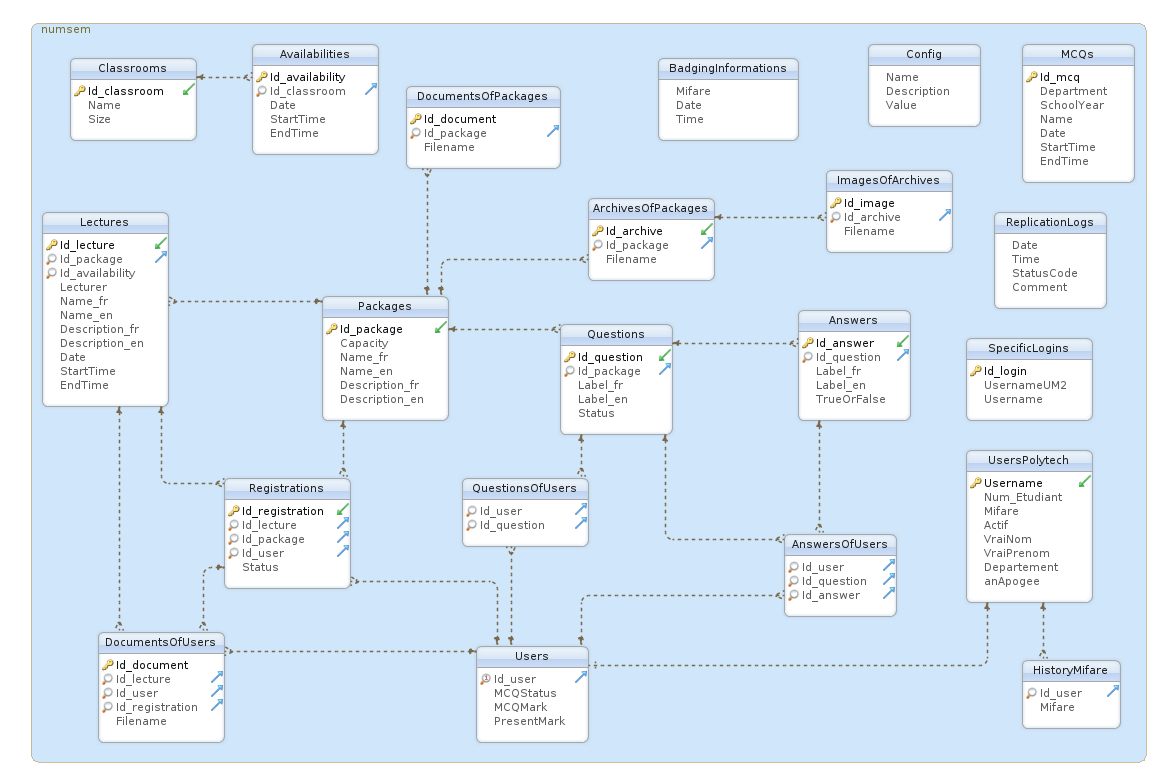
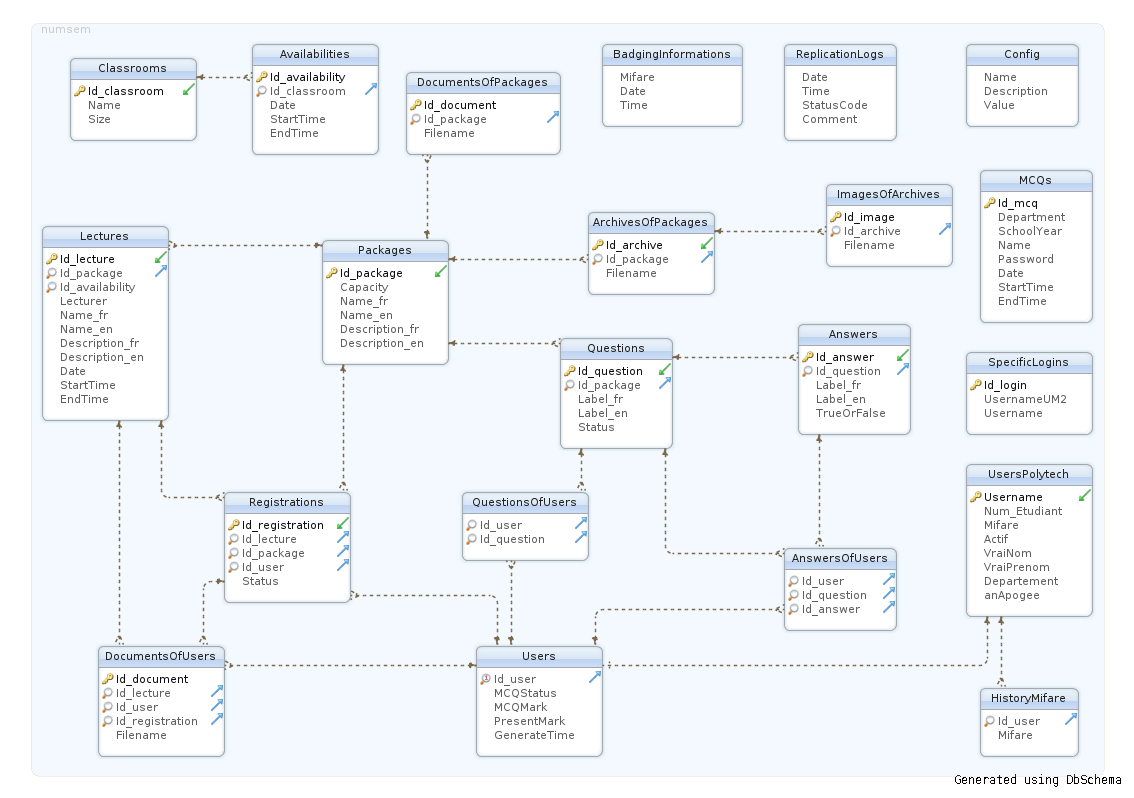
Ajout d'un mdp pour les QCMs

diff --git a/www/lib/models/McqManager.class.php b/www/lib/models/McqManager.class.php
@@ -7,6 +7,7 @@
                                   Department,
                                   SchoolYear,
                                   Name,
+                                  Password,
                                   Date,
                                   StartTime,
                                   EndTime FROM MCQs';
@@ -47,6 +48,7 @@
                 $mcq->setDepartment($data['Department']);
                 $mcq->setSchoolYear($data['SchoolYear']);
                 $mcq->setName($data['Name']);
+                $mcq->setPassword($data['Password']);
                 $mcq->setDate($date);
                 $mcq->setStartTime($startTime);
                 $mcq->setEndTime($endTime);
@@ -62,13 +64,15 @@
             $req = $this->m_dao->prepare('INSERT INTO MCQs(Department,
                                                            SchoolYear,
                                                            Name,
+                                                           Password,
                                                            Date,
                                                            StartTime,
-                                                           EndTime) VALUES(?, ?, ?, ?, ?, ?)');
+                                                           EndTime) VALUES(?, ?, ?, ?, ?, ?, ?)');
 
             $req->execute(array($mcq->getDepartment(),
                                 $mcq->getSchoolYear(),
                                 $mcq->getName(),
+                                $mcq->getPassword(),
                                 $mcq->getDate()->toStringMySQL(),
                                 $mcq->getStartTime()->toStringMySQL(),
                                 $mcq->getEndTime()->toStringMySQL()));

diff --git a/www/apps/backend/modules/mcq/views/index.php b/www/apps/backend/modules/mcq/views/index.php
@@ -17,6 +17,7 @@
 		<th>Departement</th>
 		<th>Année d'étude</th>
         <th>Nom</th>
+        <th>Mot de passe</th>
 		<th>Date</th>
 		<th>Horaire de début</th>
 		<th>Horaire de fin</th>
@@ -30,18 +31,20 @@
         $schoolYear = $mcq->getSchoolYear() + 2;
 
         $name = $mcq->getName();
+        $password = $mcq->getPassword();
         $date = $mcq->getDate();
         $startTime = $mcq->getStartTime();
         $endTime = $mcq->getEndTime();
 
         echo '<tr>';
 
-        echo "<td><p class='labelable' data-id='$id'  data-entry-name='MCQs' data-field-name='Department' data-form-type='textbox'>{$mcq->getDepartment()}</p></td>";
+        echo "<td><p class='labelable' data-id='$id' data-entry-name='MCQs' data-field-name='Department' data-form-type='textbox'>{$mcq->getDepartment()}</p></td>";
 
-        echo "<td><p class='labelable' data-id='$id'  data-entry-name='MCQs' data-field-name='SchoolYear' data-form-type='textbox'>{$schoolYear}</p></td>";
+        echo "<td><p class='labelable' data-id='$id' data-entry-name='MCQs' data-field-name='SchoolYear' data-form-type='textbox'>{$schoolYear}</p></td>";
 
-        echo "<td><p class='editable' data-id='$id'  data-entry-name='MCQs' data-field-name='Name' data-form-type='textbox'>{$name}</p></td>";
+        echo "<td><p class='editable' data-id='$id' data-entry-name='MCQs' data-field-name='Name' data-form-type='textbox'>{$name}</p></td>";
 
+        echo "<td><p class='editable' data-id='$id' data-entry-name='MCQs' data-field-name='Password' data-form-type='textbox'>{$password}</p></td>";
 
         // Date
         echo '<td>';

diff --git a/www/apps/backend/modules/mcq/McqController.class.php b/www/apps/backend/modules/mcq/McqController.class.php
@@ -52,10 +52,16 @@
                 }
 
                 $name = $request->postData('Name');
-
-                if($name == "")
+                if(empty($name))
                 {
                     $this->app()->user()->setFlashError('Nom de QCM vide.');
+                    $this->app()->httpResponse()->redirect('/admin/mcq/createMCQ.html');
+                }
+
+                $password = $request->postData('Password');
+                if(empty($password))
+                {
+                    $this->app()->user()->setFlashError('Mot de passe vide.');
                     $this->app()->httpResponse()->redirect('/admin/mcq/createMCQ.html');
                 }
 
@@ -64,6 +70,7 @@
                 $mcq->setDepartment($request->postData('Department'));
                 $mcq->setSchoolYear($realYear);
                 $mcq->setName($name);
+                $mcq->setPassword($password);
                 $mcq->setDate($date);
                 $mcq->setStartTime($startTime);
                 $mcq->setEndTime($endTime);

diff --git a/www/apps/backend/modules/mcq/views/createMCQ.php b/www/apps/backend/modules/mcq/views/createMCQ.php
@@ -21,19 +21,27 @@
     $form->add('select', 'Department')
          ->label('Département')
          ->choices($departments);
+
     $form->add('select', 'SchoolYear')
          ->label('Année')
          ->choices($schoolYears);
+
     $form->add('text', 'Name')
          ->label('Nom du QCM: ');
+
+    $form->add('text', 'Password')
+         ->label('Mot de passe: ');
+
     $form->add('text', 'Date')
          ->label('Date : ')
          ->value('JJ-MM-AAAA')
          ->size(12);
+
     $form->add('text', 'StartTime')
          ->label('Horaire de début: ')
          ->value('HH:MM:SS')
          ->size(10);
+
     $form->add('text', 'EndTime')
          ->label('Horaire de fin: ')
          ->value('HH:MM:SS')

diff --git a/www/apps/backend/modules/ajax/AjaxController.class.php b/www/apps/backend/modules/ajax/AjaxController.class.php
@@ -214,7 +214,7 @@
 								   'Answers' => array('Label_fr', 'Label_en', 'TrueOrFalse'),
 								   'Lectures' => array('Lecturer', 'Name_fr', 'Name_en', 'Description_fr', 'Description_en', 'Date', 'StartTime', 'EndTime'),
                                    'DocumentsOfPackages' => array('Filename'),
-                                   'MCQs' => array('Department', 'SchoolYear', 'Name', 'Date', 'StartTime', 'EndTime'),
+                                   'MCQs' => array('Department', 'SchoolYear', 'Name', 'Password', 'Date', 'StartTime', 'EndTime'),
                                    'ArchivesOfPackages' => array('Filename'));
 
 			$idFields = array('Classrooms' => 'Id_classroom',

diff --git a/www/lib/models/MCQ.class.php b/www/lib/models/MCQ.class.php
@@ -5,6 +5,7 @@
         private $m_department;
         private $m_schoolYear;
         private $m_name;
+        private $m_password;
         private $m_date;
         private $m_startTime;
         private $m_endTime;
@@ -47,6 +48,16 @@
         public function getName()
         {
             return $this->m_name;
+        }
+
+        public function setPassword($password)
+        {
+            $this->m_password = $password;
+        }
+
+        public function getPassword()
+        {
+            return $this->m_password;
         }
 
         public function setDate(Date $date)
